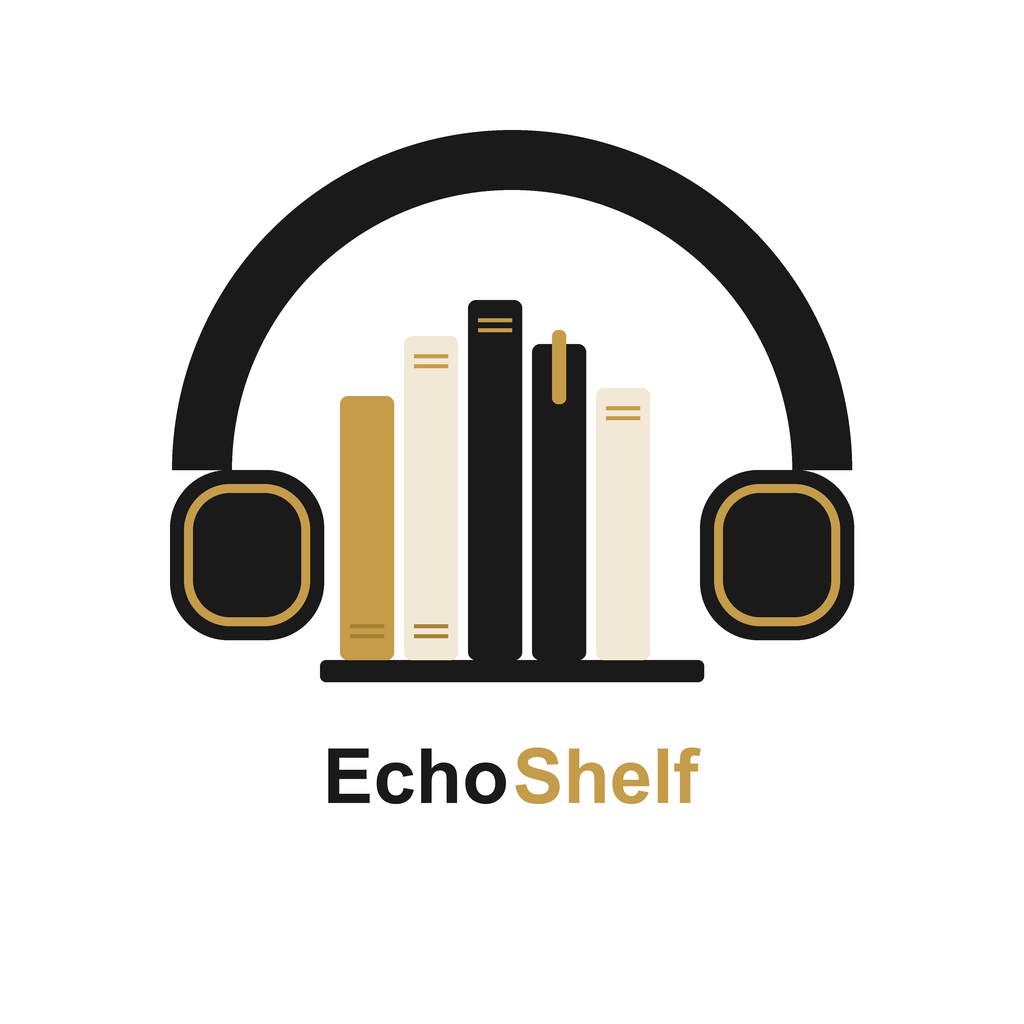
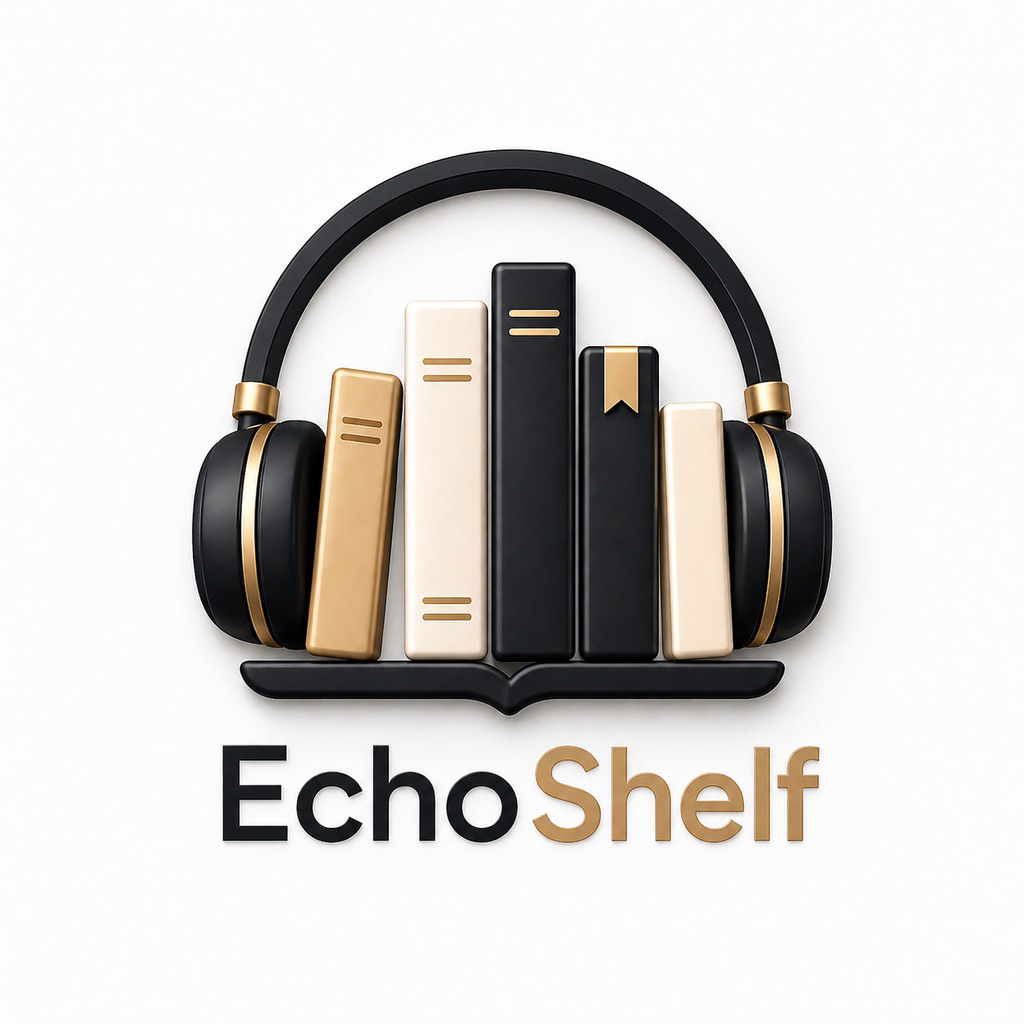
v1.6.1: 修复退出登录点两次(清内存token)；我的页自定义昵称+眼睛隐藏服务器地址；书库页彩色搜索按钮；图标直接用原图

Changed region(s): [[0.1562, 0.125, 0.8438, 0.8438]]

diff --git a/lib/pages/me_page.dart b/lib/pages/me_page.dart
@@ -10,6 +10,7 @@ import 'package:path_provider/path_provider.dart';
 import 'package:provider/provider.dart';
 
 import '../consts.dart';
+import '../models.dart';
 import '../state.dart';
 import '../cache_manager.dart';
 import '../theme.dart';
@@ -47,16 +48,7 @@ class MePage extends StatelessWidget {
                   children: [
                     _AvatarTap(username: me?.username ?? ''),
                     const SizedBox(width: 12),
-                    Expanded(
-                      child: Column(
-                        crossAxisAlignment: CrossAxisAlignment.start,
-                        children: [
-                          Text(me?.username ?? '未登录', style: const TextStyle(fontSize: 17, fontWeight: FontWeight.w700)),
-                          const SizedBox(height: 3),
-                          Text(app.api.baseUrl, style: const TextStyle(fontSize: 11.5, color: C.text2), maxLines: 1, overflow: TextOverflow.ellipsis),
-                        ],
-                      ),
-                    ),
+                    Expanded(child: _AccountInfo(app: app, me: me)),
                     if (me?.isAdmin == true) const Pill('管理员', color: C.orange),
                   ],
                 ),
@@ -409,6 +401,63 @@ class _AvatarTapState extends State<_AvatarTap> {
           ),
         ],
       ),
+    );
+  }
+}
+
+
+class _AccountInfo extends StatefulWidget {
+  const _AccountInfo({required this.app, required this.me});
+  final AppState app;
+  final AbsUser? me;
+  @override
+  State<_AccountInfo> createState() => _AccountInfoState();
+}
+
+class _AccountInfoState extends State<_AccountInfo> {
+  bool _hide = false;
+
+  Future<void> _editNickname() async {
+    final app = widget.app;
+    final ctl = TextEditingController(text: app.nickname ?? '');
+    final v = await showDialog<String>(
+      context: context,
+      builder: (d) => AlertDialog(
+        title: const Text('修改昵称'),
+        content: TextField(controller: ctl, autofocus: true, decoration: const InputDecoration(hintText: '输入昵称（留空恢复用户名）')),
+        actions: [
+          TextButton(onPressed: () => Navigator.pop(d), child: const Text('取消')),
+          FilledButton(onPressed: () => Navigator.pop(d, ctl.text.trim()), child: const Text('保存')),
+        ],
+      ),
+    );
+    if (v != null) await app.setNickname(v);
+  }
+
+  @override
+  Widget build(BuildContext context) {
+    final app = widget.app;
+    final me = widget.me;
+    final nick = app.nickname;
+    final name = (nick != null && nick.isNotEmpty) ? nick : (me?.username ?? '未登录');
+    final shown = _hide ? '••••••••••••' : app.api.baseUrl;
+    return Column(
+      crossAxisAlignment: CrossAxisAlignment.start,
+      children: [
+        Row(children: [
+          Flexible(child: Text(name, style: const TextStyle(fontSize: 17, fontWeight: FontWeight.w700), maxLines: 1, overflow: TextOverflow.ellipsis)),
+          const SizedBox(width: 6),
+          GestureDetector(onTap: _editNickname, child: const Icon(Icons.edit_outlined, size: 14, color: C.text2)),
+        ]),
+        const SizedBox(height: 3),
+        Row(children: [
+          Expanded(child: Text(shown, style: const TextStyle(fontSize: 11.5, color: C.text2), maxLines: 1, overflow: TextOverflow.ellipsis)),
+          GestureDetector(
+            onTap: () => setState(() => _hide = !_hide),
+            child: Icon(_hide ? Icons.visibility_off_outlined : Icons.visibility_outlined, size: 15, color: C.text2),
+          ),
+        ]),
+      ],
     );
   }
 }

diff --git a/lib/pages/library_page.dart b/lib/pages/library_page.dart
@@ -12,6 +12,7 @@ import '../widgets/common.dart';
 import '../widgets/global_bookmarks_sheet.dart';
 import '../widgets/meta_edit_sheet.dart';
 import 'book_page.dart';
+import 'search_page.dart';
 
 class LibraryPage extends StatefulWidget {
   const LibraryPage({super.key});
@@ -144,6 +145,18 @@ class _LibraryPageState extends State<LibraryPage> {
               children: [
                 const Text('书库', style: TS.h1),
                 const Spacer(),
+                GestureDetector(
+                  onTap: () => Navigator.of(context).push(SearchPage.route()),
+                  child: Glass(
+                    radius: 999,
+                    padding: const EdgeInsets.symmetric(horizontal: 12, vertical: 7),
+                    child: ShaderMask(
+                      shaderCallback: (r) => const LinearGradient(colors: [Color(0xFF2F80ED), Color(0xFF8B5CF6)]).createShader(r),
+                      child: const Icon(Icons.search, size: 18, color: Colors.white),
+                    ),
+                  ),
+                ),
+                const SizedBox(width: 4),
                 PopupMenuButton<String>(
                   initialValue: _sort,
                   onSelected: (v) {

diff --git a/lib/state.dart b/lib/state.dart
@@ -168,9 +168,19 @@ class AppState extends ChangeNotifier {
     notifyListeners();
   }
 
+  String? get nickname => settings.nickname;
+
+  Future<void> setNickname(String? v) async {
+    await settings.setNickname(v);
+    notifyListeners();
+  }
+
   Future<void> logout() async {
     // 先立即切到登录页（UI 即时生效），清理动作放后台，避免慢网络下“点了没反应”
     me = null;
+    // 清内存 token：否则 stopAndClose 后台 _refreshMe 会用旧 token 把 me 重新填回（“退出要点两次”根因）
+    api.token = null;
+    sharedApi?.token = null;
     continueList = [];
     libraries = [];
     itemCache.clear();

diff --git a/lib/settings.dart b/lib/settings.dart
@@ -33,6 +33,16 @@ class Settings {
     }
   }
 
+  String? get nickname => _sp.getString('nickname');
+  Future<void> setNickname(String? v) async {
+    final t = (v ?? '').trim();
+    if (t.isEmpty) {
+      await _sp.remove('nickname');
+    } else {
+      await _sp.setString('nickname', t);
+    }
+  }
+
   Future<void> logout() async {
     await _sp.remove('token');
   }

diff --git a/lib/consts.dart b/lib/consts.dart
@@ -3,8 +3,8 @@ library;
 
 /// App 显示名
 const kAppName = 'EchoShelf';
-const kAppVersion = '1.6.0';
-const kUserAgent = 'EchoShelf/1.6.0 (iOS; Audiobookshelf Client)';
+const kAppVersion = '1.6.1';
+const kUserAgent = 'EchoShelf/1.6.1 (iOS; Audiobookshelf Client)';
 
 /// 播放默认设置
 class PlayDefaults {
